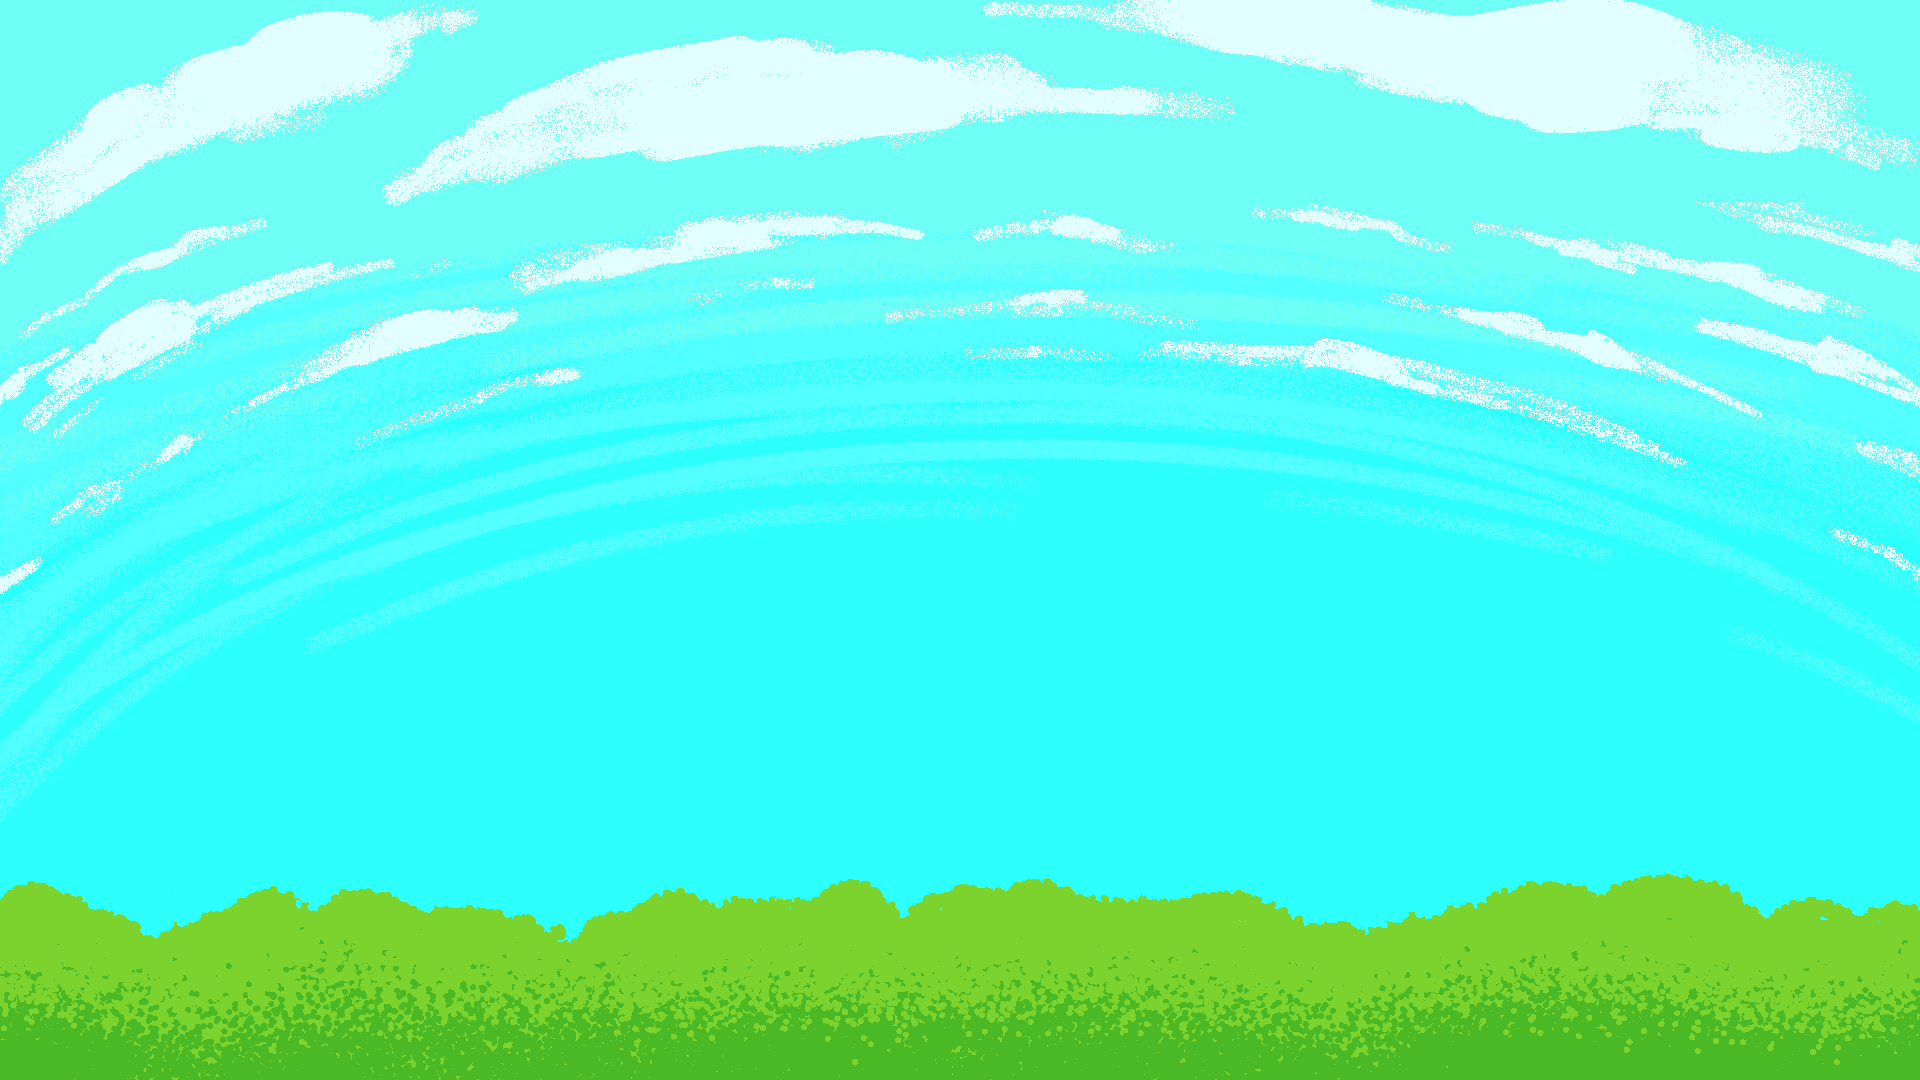
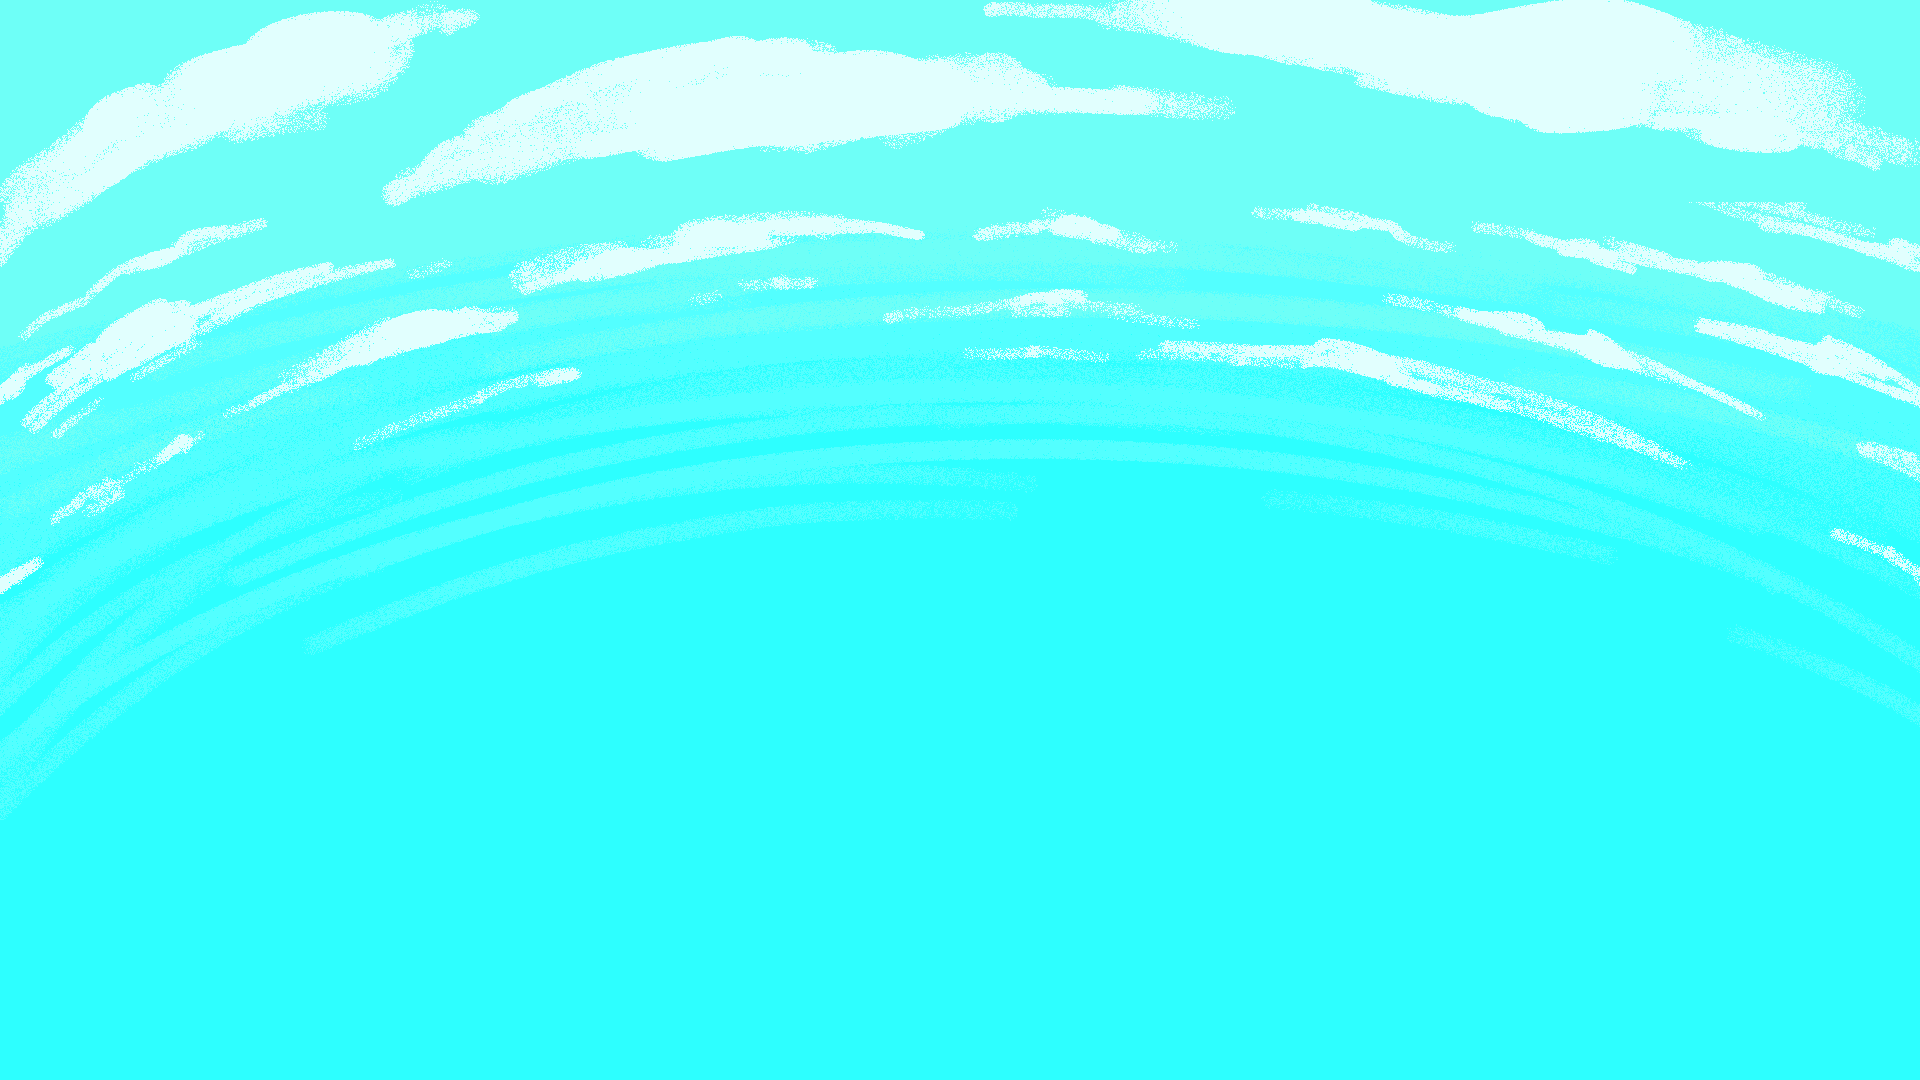
Parallax bush

Changed region(s): [[0.0, 0.7944, 1.0, 1.0]]

diff --git a/src/scenes/GameScene.ts b/src/scenes/GameScene.ts
@@ -34,6 +34,7 @@ export class GameScene extends BaseScene {
 
 	private background: Phaser.GameObjects.Image;
 	private overworld: Phaser.GameObjects.Image;
+	private overworldBush: Phaser.GameObjects.Image;
 
 	// Tree
 	private tree: Tree;
@@ -95,7 +96,13 @@ export class GameScene extends BaseScene {
 
 		this.overworld = this.add.image(this.CX, this.SURFACE_Y + 10*this.SCALE, "overworld");
 		this.overworld.setOrigin(0.5, 1.0);
+		this.overworld.setScrollFactor(0.3);
 		this.fitToScreen(this.overworld);
+
+		this.overworldBush = this.add.image(this.CX, this.SURFACE_Y + 10*this.SCALE, "overworld_bush");
+		this.overworldBush.setOrigin(0.5, 1.0);
+		this.overworldBush.setScrollFactor(0.8);
+		this.fitToScreen(this.overworldBush);
 
 		this.background = this.add.image(this.CX, this.SURFACE_Y - 20*this.SCALE, "underground");
 		this.background.setOrigin(0.5, 0);
@@ -508,6 +515,7 @@ export class GameScene extends BaseScene {
 	onCameraDrag(pointer: Phaser.Input.Pointer, gameObject: Phaser.GameObjects.GameObject, dragX: number, dragY: number) {
 		this.cameras.main.scrollX -= (pointer.x - pointer.prevPosition.x) / this.cameras.main.zoom * this.SCALE;
 		this.cameras.main.scrollY -= (pointer.y - pointer.prevPosition.y) / this.cameras.main.zoom * this.SCALE;
+
 	}
 
 

diff --git a/src/assets/assets.ts b/src/assets/assets.ts
@@ -24,6 +24,7 @@ interface Audio {
 
 // Backgrounds
 import overworld from "./images/backgrounds/overworld.png";
+import overworld_bush from "./images/backgrounds/overworld_bush.png";
 import underground from "./images/backgrounds/underground.png";
 import testshop from "./images/backgrounds/emptybkg.png";
 import shopwall from "./images/backgrounds/rocksbkg.png";
@@ -63,6 +64,7 @@ import circle from "./images/circle.png";
 const images: Asset[] = [
 	// Backgrounds
 	{ key: "overworld", path: overworld },
+	{ key: "overworld_bush", path: overworld_bush },
 	{ key: "underground", path: underground },
 	{ key: "testshop", path: testshop },
 	{ key: "shopwall", path: shopwall },
